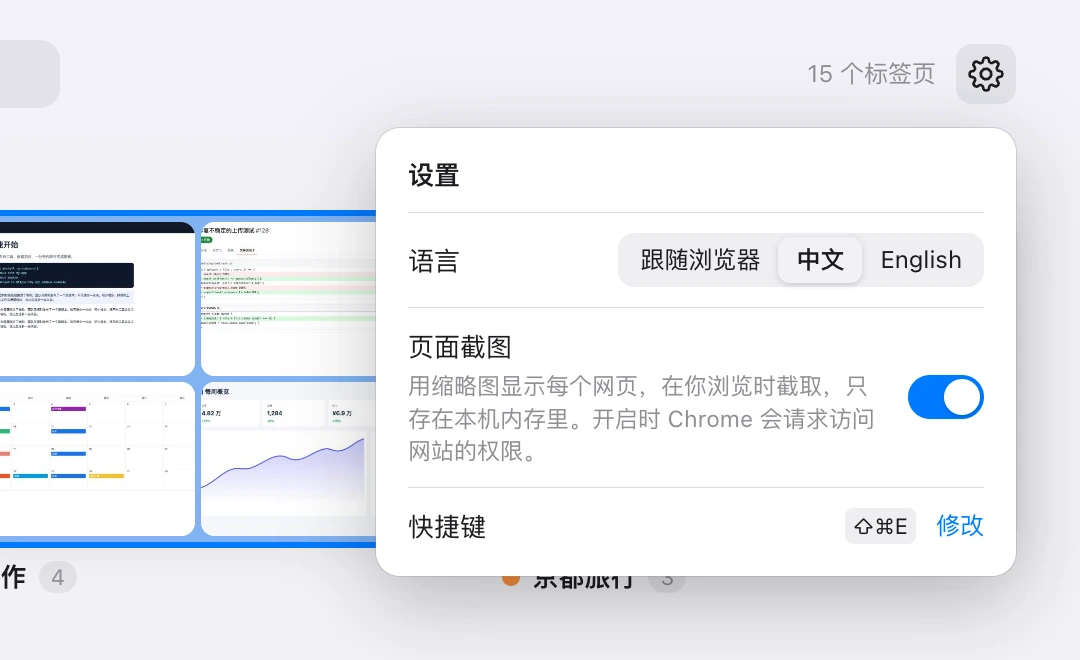
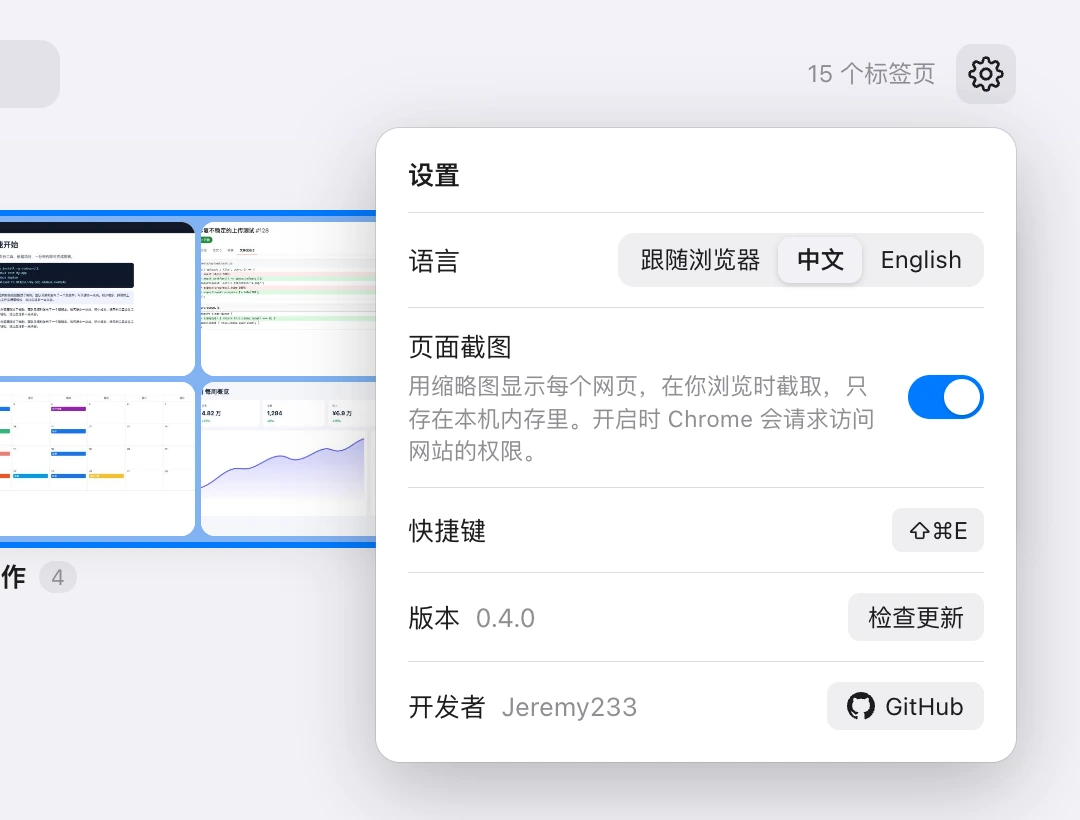
Settings: click the shortcut to change it; add update check and GitHub link
- The shortcut is shown as a key; clicking it opens Chrome's shortcut
  settings (the separate "Change" link is gone).
- Version row with "Check for updates": on click only, it fetches
  extension/manifest.json from the main branch on GitHub and compares
  version numbers; reports up to date, a newer version (with a link to
  GitHub), or that GitHub couldn't be reached. This is the extension's
  only network request.
- Developer row with a GitHub button opening the repository.
- manifest: version 0.4.0, homepage_url (the repo; Chrome also links it
  from chrome://extensions).
- READMEs and settings screenshots updated.

diff --git a/extension/overview.js b/extension/overview.js
@@ -544,9 +544,62 @@ function moveSelection(dir) {
 async function showShortcut() {
   const commands = await chrome.commands.getAll();
   const key = commands.find((c) => c.name === '_execute_action')?.shortcut;
-  const kbd = document.getElementById('shortcut-key');
-  kbd.textContent = key || t('shortcutNone');
+  document.getElementById('shortcut-key').textContent = key || t('shortcutNone');
 }
+
+// ---- version, updates, developer ----
+
+const MANIFEST = chrome.runtime.getManifest();
+const REPO_URL = MANIFEST.homepage_url; // https://github.com/<developer>/<repo>
+// The manifest on GitHub's main branch is the latest release.
+const LATEST_MANIFEST_URL = `${REPO_URL.replace('//github.com/', '//raw.githubusercontent.com/')}/main/extension/manifest.json`;
+const updateStatus = document.getElementById('update-status');
+const checkUpdatesBtn = document.getElementById('check-updates');
+
+document.getElementById('version').textContent = MANIFEST.version;
+document.getElementById('developer').textContent = new URL(REPO_URL).pathname.split('/')[1];
+
+// Is version `a` newer than `b`? (dotted numbers, e.g. 0.10.1 > 0.9.3)
+function isNewer(a, b) {
+  const pa = a.split('.').map(Number);
+  const pb = b.split('.').map(Number);
+  for (let i = 0; i < Math.max(pa.length, pb.length); i++) {
+    if ((pa[i] || 0) !== (pb[i] || 0)) return (pa[i] || 0) > (pb[i] || 0);
+  }
+  return false;
+}
+
+function openPage(url) {
+  chrome.tabs.create({ url });
+}
+
+// The only network request Tab Overview ever makes, and only when asked to.
+async function checkForUpdates() {
+  checkUpdatesBtn.disabled = true;
+  updateStatus.hidden = false;
+  updateStatus.textContent = t('checking');
+  try {
+    const res = await fetch(LATEST_MANIFEST_URL, { cache: 'no-store', credentials: 'omit' });
+    if (!res.ok) throw new Error(`HTTP ${res.status}`);
+    const latest = String((await res.json()).version || '');
+    if (latest && isNewer(latest, MANIFEST.version)) {
+      const link = el('button', 'link', t('getUpdate'));
+      link.type = 'button';
+      link.addEventListener('click', () => openPage(REPO_URL));
+      updateStatus.replaceChildren(`${t('updateAvailable', latest)} `, link);
+    } else {
+      updateStatus.textContent = t('upToDate');
+    }
+  } catch (err) {
+    console.warn('update check failed', err);
+    updateStatus.textContent = t('updateFailed');
+  } finally {
+    checkUpdatesBtn.disabled = false;
+  }
+}
+
+checkUpdatesBtn.addEventListener('click', checkForUpdates);
+document.getElementById('github').addEventListener('click', () => openPage(REPO_URL));
 
 async function showScreenshotsSetting() {
   shotsSwitch.setAttribute('aria-checked', await chrome.permissions.contains(SCREENSHOT_PERMISSION));
@@ -626,9 +679,7 @@ document.getElementById('shots-tip-close').addEventListener('click', () => {
   search.focus({ preventScroll: true });
 });
 
-document.getElementById('shortcut-change').addEventListener('click', () => {
-  chrome.tabs.create({ url: 'chrome://extensions/shortcuts' });
-});
+document.getElementById('shortcut-key').addEventListener('click', () => openPage('chrome://extensions/shortcuts'));
 
 // ---- events ----
 

diff --git a/extension/overview.html b/extension/overview.html
@@ -39,10 +39,18 @@
       </div>
       <div class="row">
         <span class="label" data-i18n="shortcut"></span>
-        <span class="shortcut">
-          <kbd id="shortcut-key"></kbd>
-          <button id="shortcut-change" class="link" type="button" data-i18n="changeShortcut"></button>
+        <button id="shortcut-key" class="key" type="button" data-i18n-title="changeShortcut"></button>
+      </div>
+      <div class="row">
+        <span class="label">
+          <span data-i18n="version"></span> <span id="version" class="value"></span>
+          <small id="update-status" class="hint" role="status" hidden></small>
         </span>
+        <button id="check-updates" class="pill" type="button" data-i18n="checkUpdates"></button>
+      </div>
+      <div class="row">
+        <span class="label"><span data-i18n="developer"></span> <span id="developer" class="value"></span></span>
+        <button id="github" class="pill" type="button"><svg viewBox="0 0 16 16" aria-hidden="true"><path d="M8 0c4.42 0 8 3.58 8 8a8.01 8.01 0 0 1-5.45 7.59c-.4.08-.55-.17-.55-.38 0-.27.01-1.13.01-2.2 0-.75-.25-1.23-.54-1.48 1.78-.2 3.65-.88 3.65-3.95 0-.88-.31-1.59-.82-2.15.08-.2.36-1.02-.08-2.12 0 0-.67-.22-2.2.82a7.6 7.6 0 0 0-4 0c-1.53-1.03-2.2-.82-2.2-.82-.44 1.1-.16 1.92-.08 2.12-.51.56-.82 1.28-.82 2.15 0 3.06 1.86 3.75 3.64 3.95-.23.2-.44.55-.51 1.07-.46.21-1.61.55-2.33-.66-.15-.24-.6-.83-1.23-.82-.67.01-.27.38.01.53.34.19.73.9.82 1.13.16.45.68 1.31 2.69.94 0 .67.01 1.3.01 1.49 0 .21-.15.45-.55.38A8 8 0 0 1 0 8c0-4.42 3.58-8 8-8Z"/></svg>GitHub</button>
       </div>
     </div>
   </header>

diff --git a/extension/overview.css b/extension/overview.css
@@ -235,11 +235,46 @@ header {
   font-weight: 600;
 }
 
-.shortcut {
-  display: flex;
-  align-items: center;
-  gap: 8px;
+.settings .hint[hidden] { display: none; }
+.settings .value { margin-left: 4px; color: var(--muted); }
+
+/* The current shortcut, drawn as a key; clicking it opens Chrome's shortcut settings. */
+.key {
+  flex: none;
+  min-width: 24px;
+  padding: 2px 8px;
+  border: 0;
+  border-radius: 5px;
+  background: var(--field);
+  color: var(--text);
+  font: inherit;
+  font-size: 12px;
+  line-height: 18px;
+  cursor: pointer;
 }
+
+.key:hover { background: color-mix(in srgb, var(--accent) 14%, transparent); color: var(--accent); }
+
+.pill {
+  flex: none;
+  display: inline-flex;
+  align-items: center;
+  gap: 5px;
+  padding: 3px 10px;
+  border: 0;
+  border-radius: 6px;
+  background: var(--field);
+  color: var(--text);
+  font: inherit;
+  font-size: 12px;
+  line-height: 18px;
+  white-space: nowrap;
+  cursor: pointer;
+}
+
+.pill:hover { background: color-mix(in srgb, var(--muted) 30%, transparent); }
+.pill:disabled { cursor: progress; opacity: 0.6; }
+.pill svg { width: 14px; height: 14px; fill: currentColor; }
 
 .link {
   padding: 0;

diff --git a/extension/i18n.js b/extension/i18n.js
@@ -31,7 +31,15 @@ const STRINGS = {
     dismiss: '不再显示',
     shortcut: '快捷键',
     shortcutNone: '未设置',
-    changeShortcut: '修改',
+    changeShortcut: '点击修改快捷键',
+    version: '版本',
+    checkUpdates: '检查更新',
+    checking: '正在检查…',
+    upToDate: '已经是最新版本。',
+    updateAvailable: (v) => `有新版本 ${v}。`,
+    getUpdate: '去 GitHub 下载',
+    updateFailed: '无法连接 GitHub，请稍后再试。',
+    developer: '开发者',
   },
   en: {
     pageTitle: 'All Tabs',
@@ -62,7 +70,15 @@ const STRINGS = {
     dismiss: 'Don’t show again',
     shortcut: 'Shortcut',
     shortcutNone: 'Not set',
-    changeShortcut: 'Change',
+    changeShortcut: 'Click to change the shortcut',
+    version: 'Version',
+    checkUpdates: 'Check for updates',
+    checking: 'Checking…',
+    upToDate: 'You have the latest version.',
+    updateAvailable: (v) => `Version ${v} is available.`,
+    getUpdate: 'Get it on GitHub',
+    updateFailed: 'Couldn’t reach GitHub. Try again later.',
+    developer: 'Developer',
   },
 };
 

diff --git a/tools/screenshots/render.js b/tools/screenshots/render.js
@@ -196,7 +196,7 @@ async function render(lang, base) {
     await overview.click('#settings-btn');
     await overview.mouse.move(8, 8);
     await sleep(300);
-    await shoot('settings', { clip: { x: 900, y: 0, width: 540, height: 330 } });
+    await shoot('settings', { clip: { x: 900, y: 0, width: 540, height: 410 } });
 
     console.log(`  ${path.relative(ROOT, outDir)}/: ${fs.readdirSync(outDir).join(', ')}`);
   } finally {

diff --git a/README.md b/README.md
@@ -33,7 +33,7 @@ Tab Overview isn't on the Chrome Web Store yet, so install it as an unpacked ext
 
 It needs Chrome 112 or later. Other Chromium-based browsers should work too, but haven't been tested.
 
-To update later, pull the latest code (or download it again) and click the reload button ↻ on the extension's card in `chrome://extensions`.
+To find out whether there's a newer version, click **Check for updates** in the overview's settings. To update, pull the latest code (or download it again) and click the reload button ↻ on the extension's card in `chrome://extensions`.
 
 ## How to use it
 
@@ -41,7 +41,7 @@ To update later, pull the latest code (or download it again) and click the reloa
 
 Press <kbd>⌘</kbd><kbd>⇧</kbd><kbd>E</kbd> on macOS or <kbd>Ctrl</kbd><kbd>Shift</kbd><kbd>E</kbd> on Windows and Linux, or click the toolbar button. The tab you came from is marked **Current** and already selected. Press the shortcut again, or <kbd>Esc</kbd>, to close the overview and return to it.
 
-> If the shortcut does nothing, another extension may already be using it. Pick your own under **Settings → Shortcut → Change**, or at `chrome://extensions/shortcuts`.
+> If the shortcut does nothing, another extension may already be using it. Click the shortcut shown in **Settings** to pick your own, or go to `chrome://extensions/shortcuts`.
 
 ### Find a tab
 
@@ -68,7 +68,13 @@ Each tab group appears as one card with its color, name, number of tabs and a mo
 
 ### Settings
 
-Click the gear in the top-right corner to choose the language (follow the browser, 中文 or English), turn page screenshots on or off, and see or change the keyboard shortcut.
+Click the gear in the top-right corner to:
+
+- choose the language (follow the browser, 中文 or English);
+- turn page screenshots on or off;
+- see the keyboard shortcut, and click it to change it;
+- see the version and **Check for updates**;
+- open the project on **GitHub**.
 
 <img src="docs/images/en/settings.webp" alt="Settings panel with language and shortcut options" width="540">
 
@@ -92,7 +98,7 @@ While it's on, keep in mind that Chrome only lets extensions capture the tab tha
 | `favicon` | Show site icons from Chrome's own cache, without any network requests |
 | Access to all sites (optional) | Only asked for when you turn on page screenshots: Chrome requires it to capture the visible tab |
 
-When you install it, Chrome only mentions reading your browsing history (from `tabs`) and managing tab groups. Tab Overview makes no network requests, has no analytics and loads no remote code.
+When you install it, Chrome only mentions reading your browsing history (from `tabs`) and managing tab groups. Tab Overview has no analytics and loads no remote code. The only network request it ever makes is when you click **Check for updates**: it reads the version number in this repository's `extension/manifest.json` on GitHub.
 
 ## Regenerating the screenshots
 

diff --git a/README.zh-CN.md b/README.zh-CN.md
@@ -33,7 +33,7 @@
 
 需要 Chrome 112 或更高版本。其他基于 Chromium 的浏览器理论上也能用，但还没有测试过。
 
-以后更新时，拉取最新代码（或重新下载），然后在 `chrome://extensions` 里点这个扩展卡片上的刷新按钮 ↻。
+想知道有没有新版本，就在总览页的设置里点 **检查更新**。更新时，拉取最新代码（或重新下载），然后在 `chrome://extensions` 里点这个扩展卡片上的刷新按钮 ↻。
 
 ## 使用方法
 
@@ -41,7 +41,7 @@
 
 在 macOS 上按 <kbd>⌘</kbd><kbd>⇧</kbd><kbd>E</kbd>，在 Windows 和 Linux 上按 <kbd>Ctrl</kbd><kbd>Shift</kbd><kbd>E</kbd>，或者点工具栏按钮。你原来所在的标签页会标上 **当前**，并且已经选中。再按一次快捷键或按 <kbd>Esc</kbd>，就会关闭总览，回到原来的标签页。
 
-> 如果按快捷键没反应，可能是被其他扩展占用了。可以在 **设置 → 快捷键 → 修改** 里换一个，或者直接打开 `chrome://extensions/shortcuts` 设置。
+> 如果按快捷键没反应，可能是被其他扩展占用了。在 **设置** 里点一下显示的快捷键就能换一个，或者直接打开 `chrome://extensions/shortcuts` 设置。
 
 ### 查找标签页
 
@@ -68,7 +68,13 @@
 
 ### 设置
 
-点右上角的齿轮图标，可以切换界面语言（跟随浏览器、中文或 English）、开关页面截图，以及查看和修改快捷键。
+点右上角的齿轮图标，可以：
+
+- 切换界面语言（跟随浏览器、中文或 English）；
+- 开关页面截图；
+- 查看快捷键，点一下就能修改；
+- 查看版本号，并 **检查更新**；
+- 打开项目的 **GitHub** 页面。
 
 <img src="docs/images/zh/settings.webp" alt="设置面板：语言和快捷键" width="540">
 
@@ -92,7 +98,7 @@
 | `favicon` | 从 Chrome 自身的缓存读取网站图标，不发起任何网络请求 |
 | 访问所有网站的数据（可选） | 只在你打开页面截图时才会申请：Chrome 要求有这个权限才能截取当前标签页 |
 
-安装时 Chrome 只会提示"读取您的浏览记录"（来自 `tabs`）和管理标签页分组。Tab Overview 不发起任何网络请求，没有统计分析，也不加载远程代码。
+安装时 Chrome 只会提示"读取您的浏览记录"（来自 `tabs`）和管理标签页分组。Tab Overview 没有统计分析，也不加载远程代码。它唯一会发起的网络请求，是在你点 **检查更新** 时，去 GitHub 读取本仓库 `extension/manifest.json` 里的版本号。
 
 ## 重新生成截图
 
